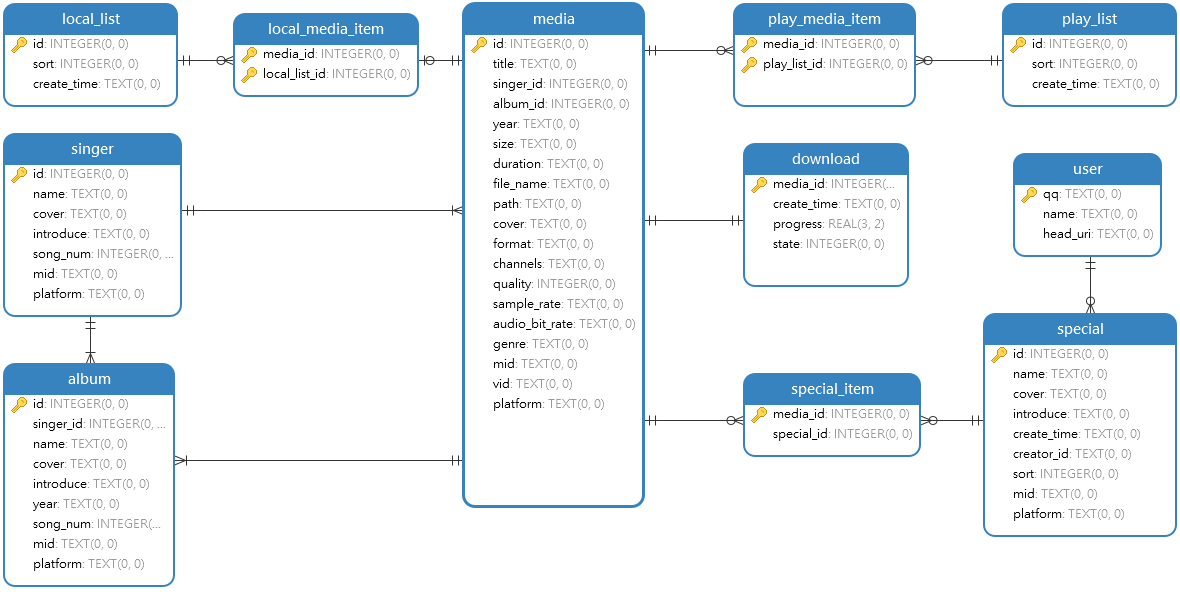
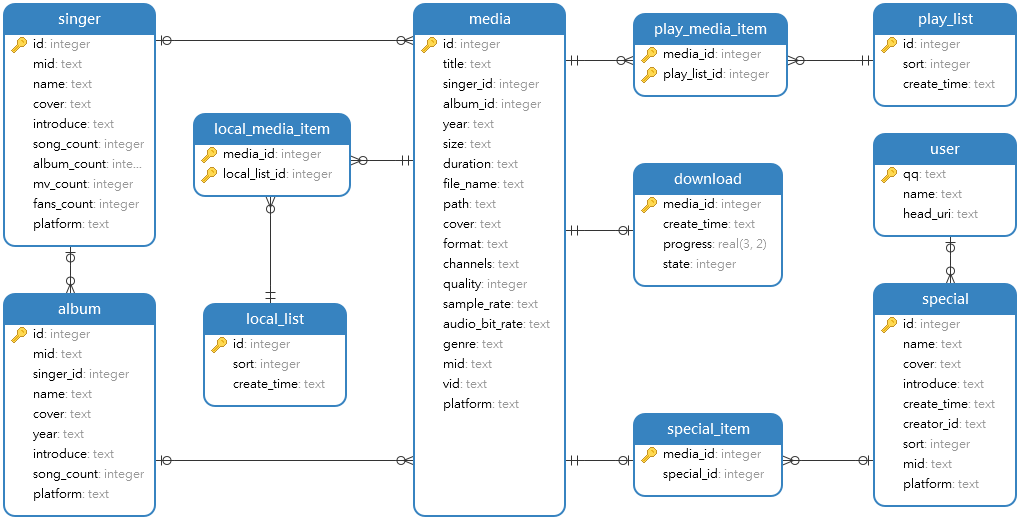
完善数据库设计以及数据库操作

diff --git a/src/com/scmq/player/view/NetSearchView.java b/src/com/scmq/player/view/NetSearchView.java
@@ -188,13 +188,13 @@ public class NetSearchView extends AnchorPane {
 		// 设置歌手名称
 		nameLabel.setText(StringUtil.isEmpty(singer.getName()) ? "-" : singer.getName());
 		// 设置歌曲数量
-		songNumLabel.setText(singer.getSongNum() == null ? "-" : singer.getSongNum().toString());
+		songNumLabel.setText(singer.getSongCount() == null ? "-" : singer.getSongCount().toString());
 		// 设置专辑数量
-		albumNumLabel.setText(singer.getAlbumNum() == null ? "-" : singer.getAlbumNum().toString());
+		albumNumLabel.setText(singer.getAlbumCount() == null ? "-" : singer.getAlbumCount().toString());
 		// 设置MV数量
-		mvNumLabel.setText(singer.getMvNum() == null ? "-" : singer.getMvNum().toString());
+		mvNumLabel.setText(singer.getMvCount() == null ? "-" : singer.getMvCount().toString());
 		// 设置粉丝数量
-		followNumLabel.setText(StringUtil.isEmpty(singer.getFollowNum()) ? "-" : singer.getFollowNum());
+		followNumLabel.setText(StringUtil.isEmpty(singer.getFansCount()) ? "-" : singer.getFansCount());
 	}
 
 	/**

diff --git a/src/com/scmq/player/model/Album.java b/src/com/scmq/player/model/Album.java
@@ -21,7 +21,7 @@ public class Album {
 	/** 发行时间 */
 	private String year;
 	/** 专辑所包含的歌曲总数 */
-	private Integer songNum;
+	private Integer songCount;
 	/** 专辑所属音乐平台 */
 	private String platform;
 
@@ -129,12 +129,12 @@ public class Album {
 		this.year = year;
 	}
 
-	public Integer getSongNum() {
-		return songNum;
+	public Integer getSongCount() {
+		return songCount;
 	}
 
-	public void setSongNum(Integer songNum) {
-		this.songNum = songNum;
+	public void setSongCount(Integer songCount) {
+		this.songCount = songCount;
 	}
 
 	public String getPlatform() {
@@ -148,6 +148,6 @@ public class Album {
 	@Override
 	public String toString() {
 		return "Album [name=" + name + ", mid=" + mid + ", cover=" + cover + ", singerName=" + singer + ", introduce="
-				+ introduce + ", year=" + year + ", songNum=" + songNum + "]";
+				+ introduce + ", year=" + year + ", songNum=" + songCount + "]";
 	}
 }
